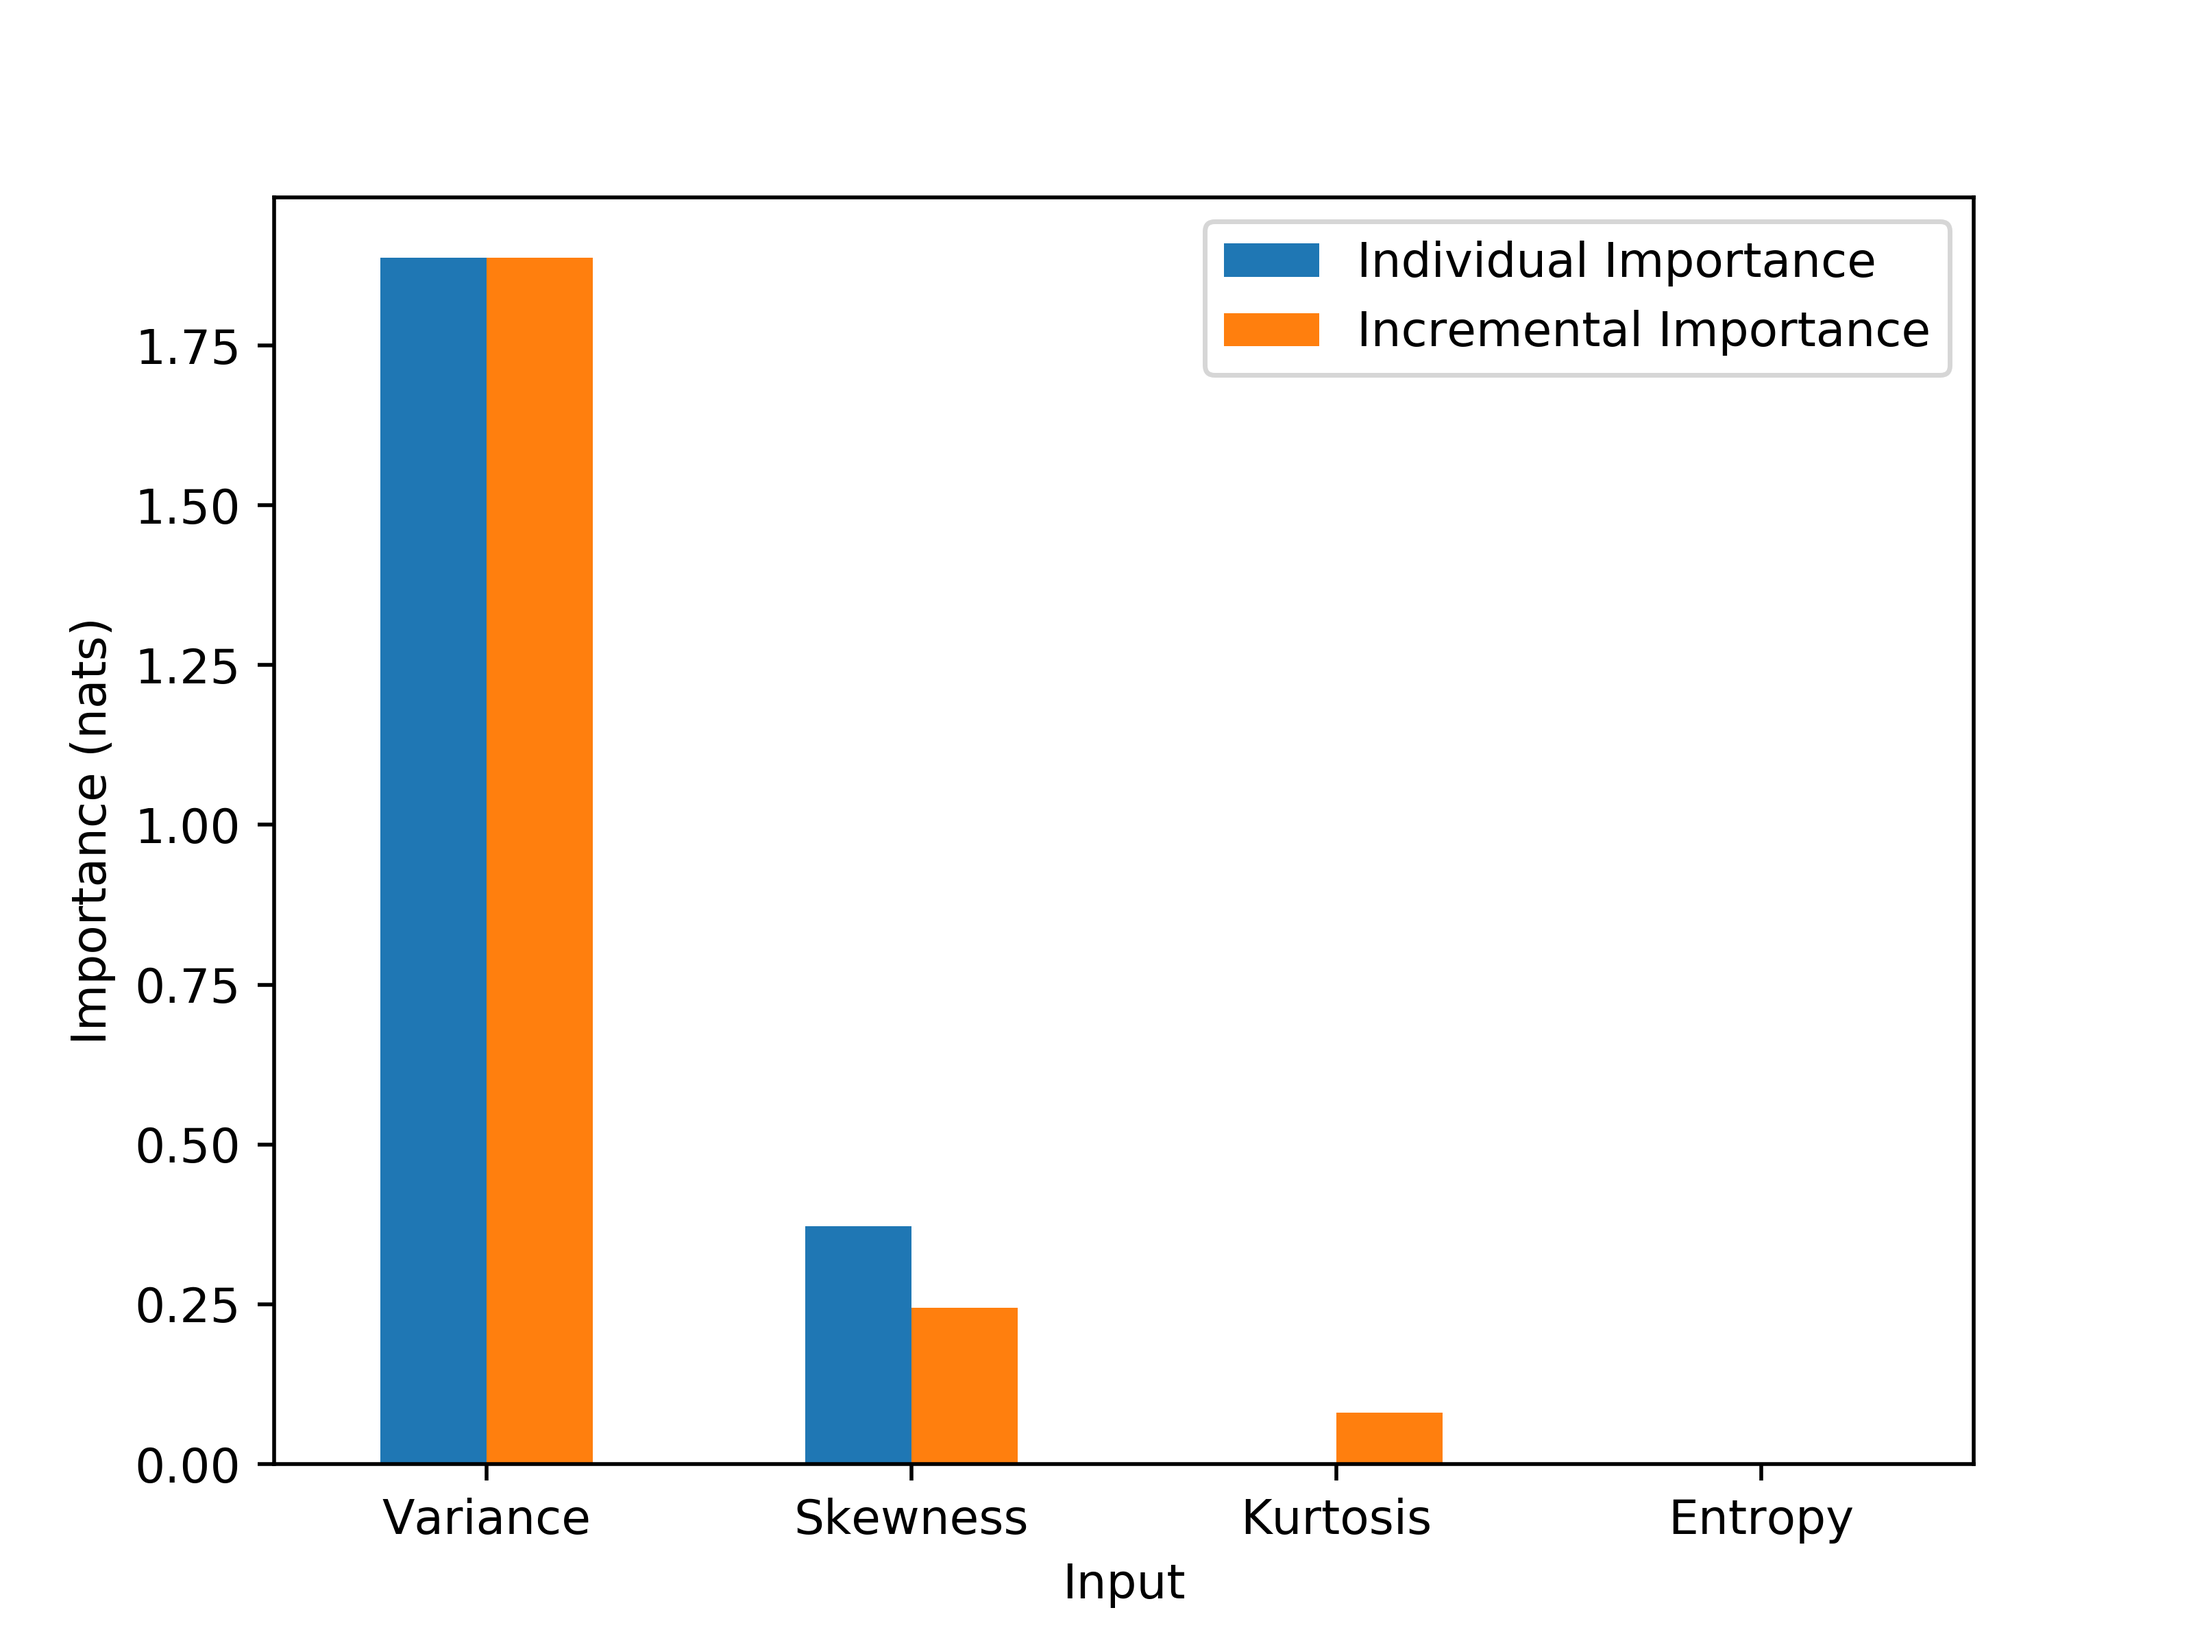
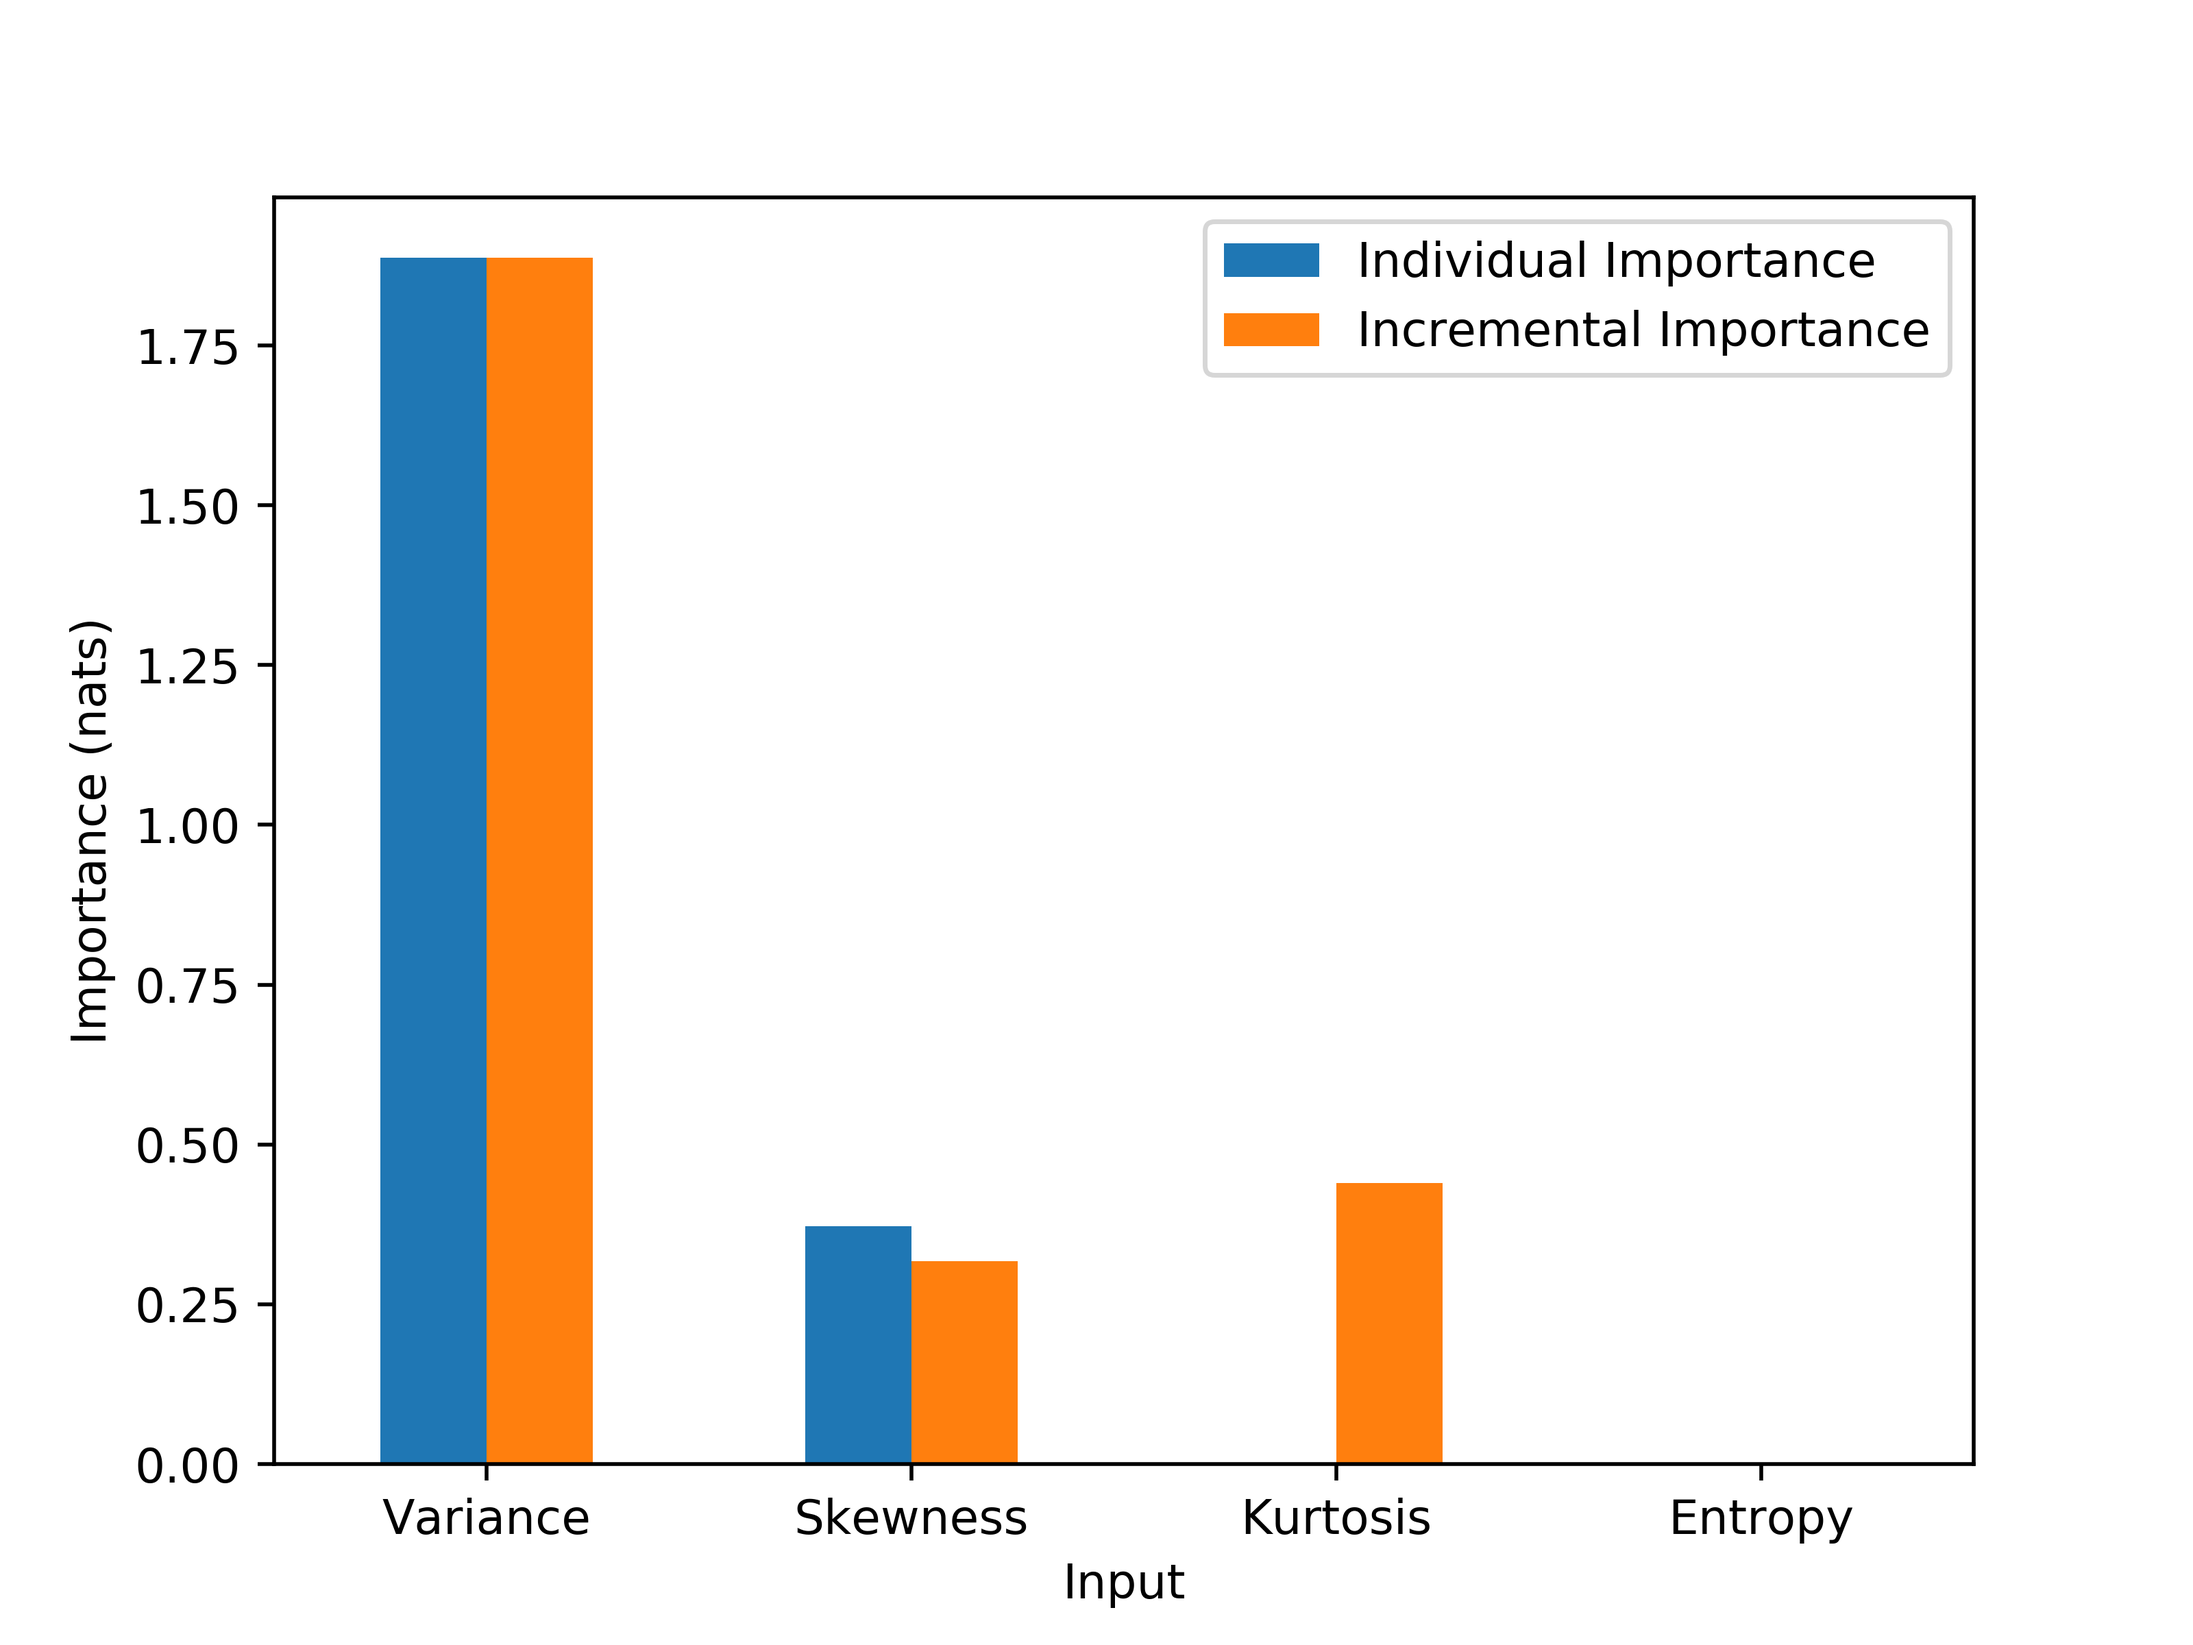
Exposing the greedy parameter and a cummulative importance column

Changed region(s): [[0.5938, 0.7188, 0.6562, 0.875], [0.4062, 0.75, 0.4688, 0.8125]]

diff --git a/kxy/data/dataframe.py b/kxy/data/dataframe.py
@@ -361,6 +361,8 @@ class DataFrame(pd.DataFrame):
 			'individual_importance': [v for k, v in sorted(importance.items(), key=lambda item: -item[1])], \
 			'normalized_individual_importance': [v*scale for k, v in sorted(importance.items(), key=lambda item: -item[1])]})
 
+		importance_df['cum_normalized_individual_importance'] = importance_df['normalized_individual_importance'].cumsum()
+
 		return importance_df
 
 
@@ -710,7 +712,7 @@ class DataFrame(pd.DataFrame):
 		
 	
 
-	def regression_input_incremental_importance(self, label_column, input_columns=(), space='dual'):
+	def regression_input_incremental_importance(self, label_column, input_columns=(), space='dual', greedy=False):
 		"""
 		Quantifies how important each input is at solving a regression problem,
 		taking into possible information redundancy between inputs.
@@ -721,10 +723,12 @@ class DataFrame(pd.DataFrame):
 			The incremental importance of input :math:`x` for predicting label :math:`y` once we already
 			know inputs :math:`z` is defined as the conditional mutual information :math:`I(y; x|z)`.
 
-			We first select the column with the highest mutual information with the label. Then we 
+			When greedy=True, we first select the column with the highest mutual information with the label. Then we 
 			sequentially select, among all remaining input columns, the one with the highest conditional mutual
 			information with the label, conditional on all previously selected inputs, until there is no
 			input left to select.
+
+			When greedy=False, inputs are selected in decreasing order of their mutual information with the output.
 
 		.. important::
 
@@ -770,7 +774,7 @@ class DataFrame(pd.DataFrame):
 		data = np.hstack((self[label_column].values[:, None], self[continuous_inputs].values, \
 			np.abs(self[continuous_inputs].values-np.nanmean(self[continuous_inputs].values, axis=0))))
 		corr = pearson_corr(data) if space == 'primal' else spearman_corr(data)
-		mi_analysis = mutual_information_analysis(corr, 0, space=space)
+		mi_analysis = mutual_information_analysis(corr, 0, space=space, greedy=greedy)
 		columns = [label_column] + continuous_inputs + continuous_inputs
 
 		if mi_analysis is None:
@@ -799,6 +803,7 @@ class DataFrame(pd.DataFrame):
 			'selection_order': [v for k, v in sorted(order.items(), key=lambda item: item[1])], \
 			'incremental_importance': [res[k] for k, v in sorted(order.items(), key=lambda item: item[1])], \
 			'normalized_incremental_importance': [res[k]*scale for k, v in sorted(order.items(), key=lambda item: item[1])]})
+		importance_df['cum_normalized_incremental_importance'] = importance_df['normalized_incremental_importance'].cumsum()
 
 		return importance_df
 
@@ -884,6 +889,7 @@ class DataFrame(pd.DataFrame):
 			'selection_order': [v for k, v in sorted(order.items(), key=lambda item: item[1])], \
 			'incremental_importance': [res[k] for k, v in sorted(order.items(), key=lambda item: item[1])], \
 			'normalized_incremental_importance': [res[k]*scale for k, v in sorted(order.items(), key=lambda item: item[1])]})
+		importance_df['cum_normalized_incremental_importance'] = importance_df['normalized_incremental_importance'].cumsum()
 
 		return importance_df
 
@@ -911,7 +917,7 @@ class DataFrame(pd.DataFrame):
 
 
 
-	def incremental_input_importance(self, label_column, input_columns=(), space='dual'):
+	def incremental_input_importance(self, label_column, input_columns=(), space='dual', greedy=False):
 		"""
 		Returns :code:`DataFrame.classification_input_incremental_importance` or 
 		:code:`DataFrame.regression_input_incremental_importance` depending on whether the label 
@@ -926,7 +932,7 @@ class DataFrame(pd.DataFrame):
 
 		else:
 			return self.regression_input_incremental_importance(label_column, input_columns=input_columns, \
-				space=space)
+				space=space, greedy=greedy)
 
 
 

diff --git a/kxy/api/max_ent_optimizers.py b/kxy/api/max_ent_optimizers.py
@@ -126,7 +126,7 @@ def solve_copula_sync(corr, mode=None, output_index=None, solve_async=True, spac
 
 
 
-def mutual_information_analysis(corr, output_index, space='dual'):
+def mutual_information_analysis(corr, output_index, space='dual', greedy=False):
 	'''
 	Analyzes the dependency between :math:`d`-dimensional continuous random vector :math:`x=\\left(x_1, \\dots, x_d \\right)` and
 	a continuous random scalar :math:`y` whose joint correlation matrix is :code:`corr`, the column :code:`output_index` of which 
@@ -140,7 +140,9 @@ def mutual_information_analysis(corr, output_index, space='dual'):
 		I\\left(y; x_1, \\dots, x_d\\right) = I\\left(y; x_{(1)}\\right) + \\sum_{i=2}^d I\\left(y; x_{(i)} \\vert x_{(i-1)}, \\dots, x_{(1)} \\right).
 
 
-	This function estimates the mutual information :math:`I(y; x)` by learning the following permutation:
+	This function estimates the mutual information :math:`I(y; x)` by learning the following permutation. 
+
+	When greedy is True:
 
 	* :math:`x_{(1)}` is the input with the largest maximum entropy mutual information with :math:`y` under Spearman
 	rank correlation constraints.
@@ -152,6 +154,8 @@ def mutual_information_analysis(corr, output_index, space='dual'):
 
 	This function returns the learned permutation of inputs, the association conditional mutual informations (a.k.a, the incremental input 
 	importancee scores), as well as the mutual information :math:`I\\left(y; x_1, \\dots, x_d\\right)`.
+
+	When greedy is False, (i) is the input with the i-th largest mutual information with the output.
 
 
 	Parameters
@@ -183,7 +187,7 @@ def mutual_information_analysis(corr, output_index, space='dual'):
 			logging.debug('Querying mutual information analysis with corr=%s and output_index=%d' % (c, output_index))
 			api_response = APIClient.route(path='/rv/mutual-information-analysis', method='POST',\
 				corr=c, output_index=output_index, request_id=request_id, timestamp=int(time()), \
-				space=space)
+				space=space, greedy=int(greedy))
 			query_duration = time()-query_start_time
 
 		else:
@@ -191,7 +195,7 @@ def mutual_information_analysis(corr, output_index, space='dual'):
 			# Subsequent attempt: refer to the initial request
 			logging.debug('Querying mutual information analysis for request_id=%s' % request_id)
 			api_response = APIClient.route(path='/rv/mutual-information-analysis', method='POST',\
-				request_id=request_id, timestamp=int(time()))
+				request_id=request_id, timestamp=int(time()), space=space)
 			query_duration = time()-query_start_time
 
 		retry_count += 1
@@ -273,7 +277,7 @@ def copula_entropy_analysis(corr, space='dual'):
 			# Subsequent attempt: refer to the initial request
 			logging.debug('Querying copula entropy analysis for request_id=%s' % request_id)
 			api_response = APIClient.route(path='/rv/copula-entropy-analysis', method='POST', \
-				request_id=request_id, timestamp=int(time()))
+				request_id=request_id, timestamp=int(time()), space=space)
 			query_duration = time()-query_start_time
 
 		retry_count += 1

diff --git a/examples/classification.py b/examples/classification.py
@@ -35,13 +35,13 @@ if __name__ == '__main__':
 	logging.info('')
 	logging.info('')
 	logging.info('Incremental Input Importance (Dual)')
-	importance_df_2 = df.incremental_input_importance('Is Fake')
+	importance_df_2 = df.incremental_input_importance('Is Fake', greedy=True)
 	logging.info('\n %s' % importance_df_2.round(2))
 
 	logging.info('')
 	logging.info('')
 	logging.info('Incremental Input Importance (Primal)')
-	importance_df_3 = df.incremental_input_importance('Is Fake', space='primal')
+	importance_df_3 = df.incremental_input_importance('Is Fake', space='primal', greedy=True)
 	logging.info('\n %s' % importance_df_3.round(2))
 	importance_df_2 = importance_df_2.set_index(['input'])
 

diff --git a/examples/regression.py b/examples/regression.py
@@ -33,11 +33,11 @@ if __name__ == '__main__':
 
 	# Incremental importance
 	logging.info('Incremenal Input Importance (Dual)')
-	importance_df = df.incremental_input_importance(label_column)
+	importance_df = df.incremental_input_importance(label_column, greedy=True)
 	logging.info('\n %s' % importance_df.round(4))
 
 	logging.info('Incremenal Input Importance (Primal)')
-	importance_df = df.incremental_input_importance(label_column, space='primal')
+	importance_df = df.incremental_input_importance(label_column, space='primal', greedy=True)
 	logging.info('\n %s ' % importance_df.round(4))
 
 	"""
